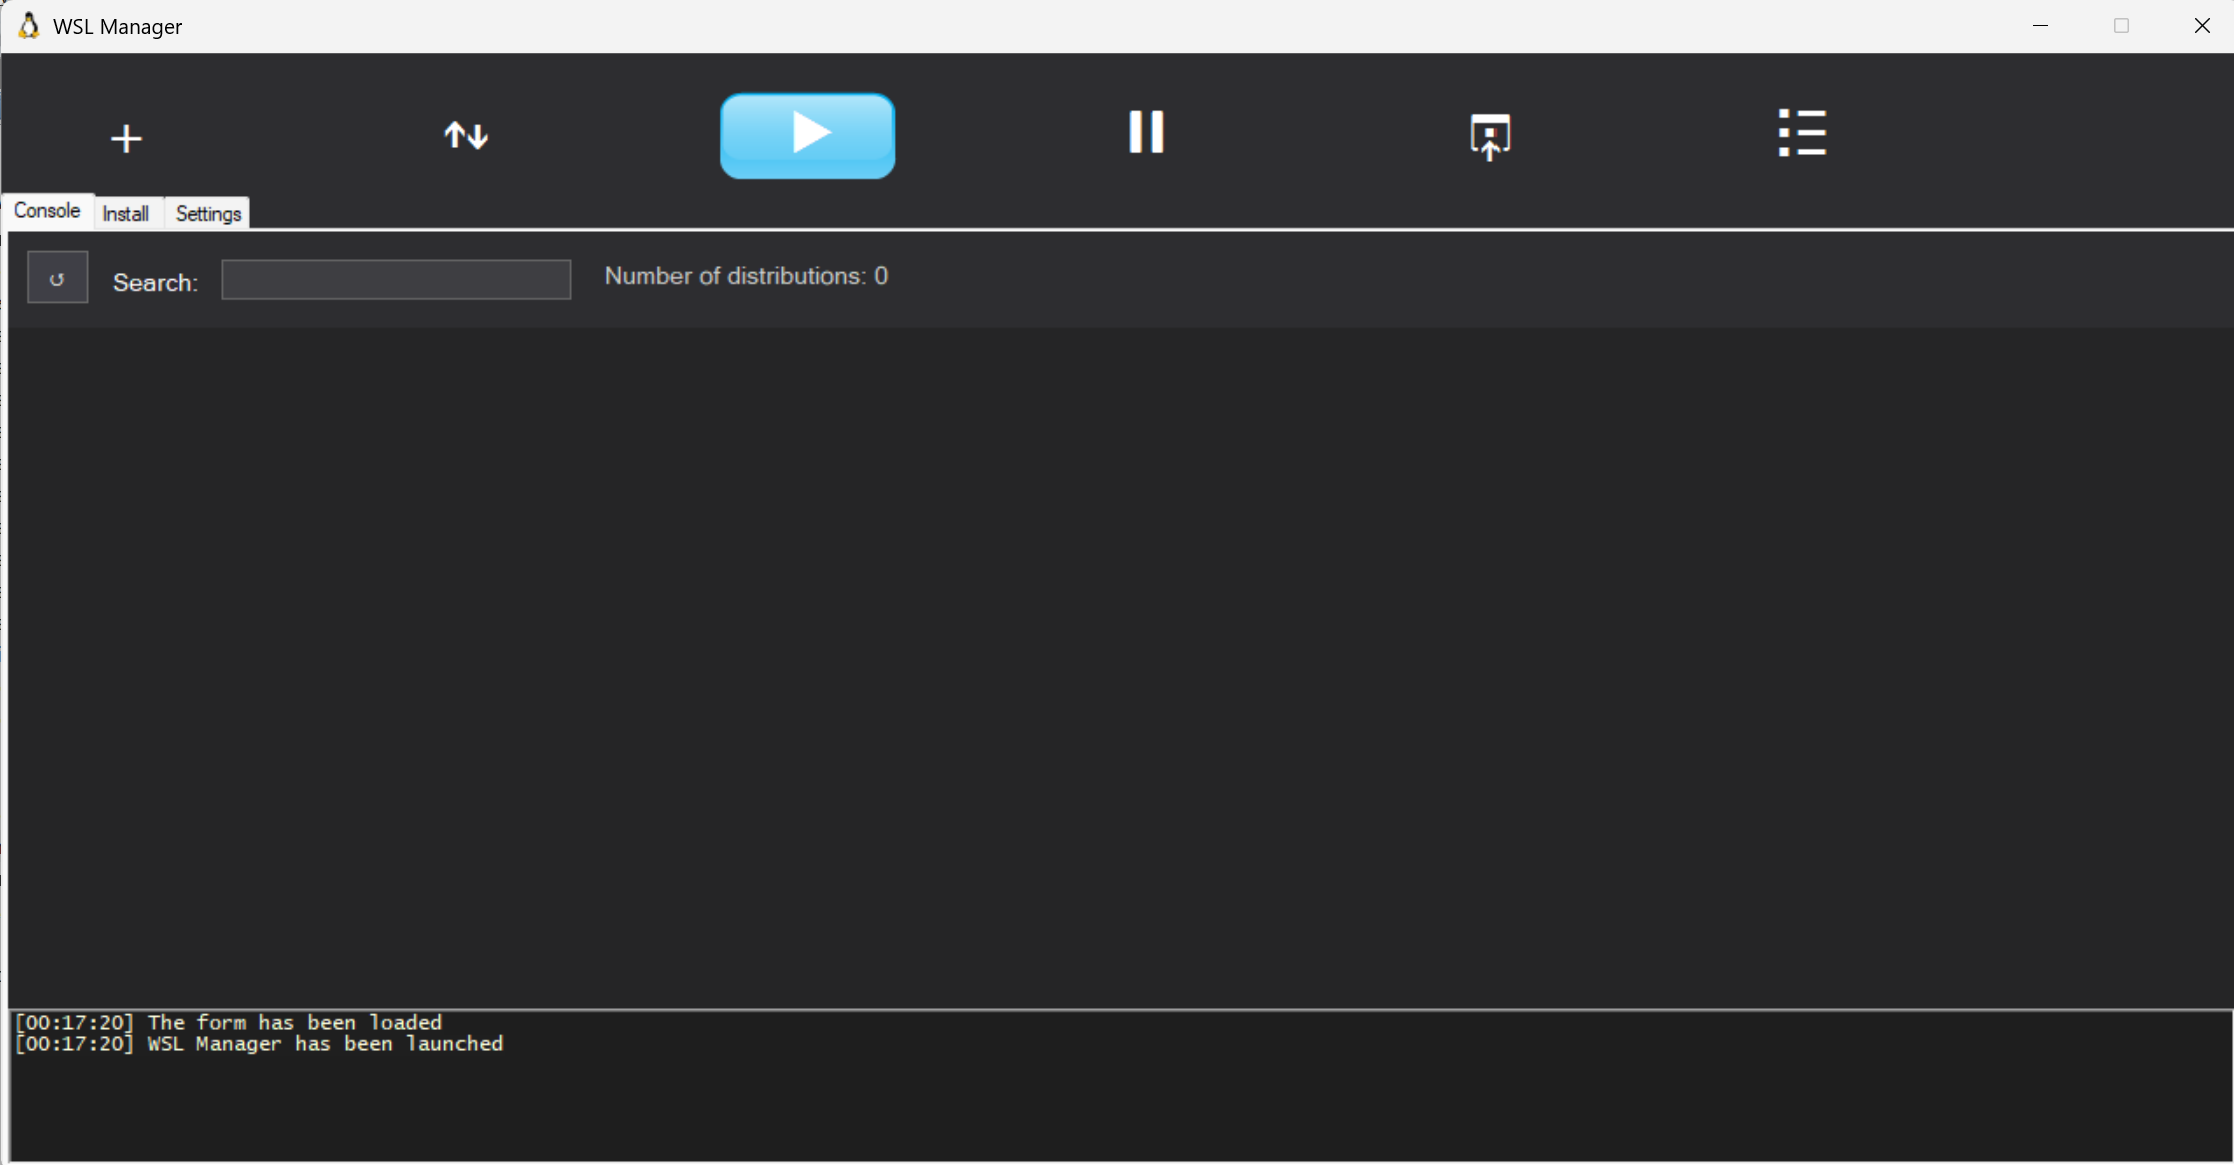
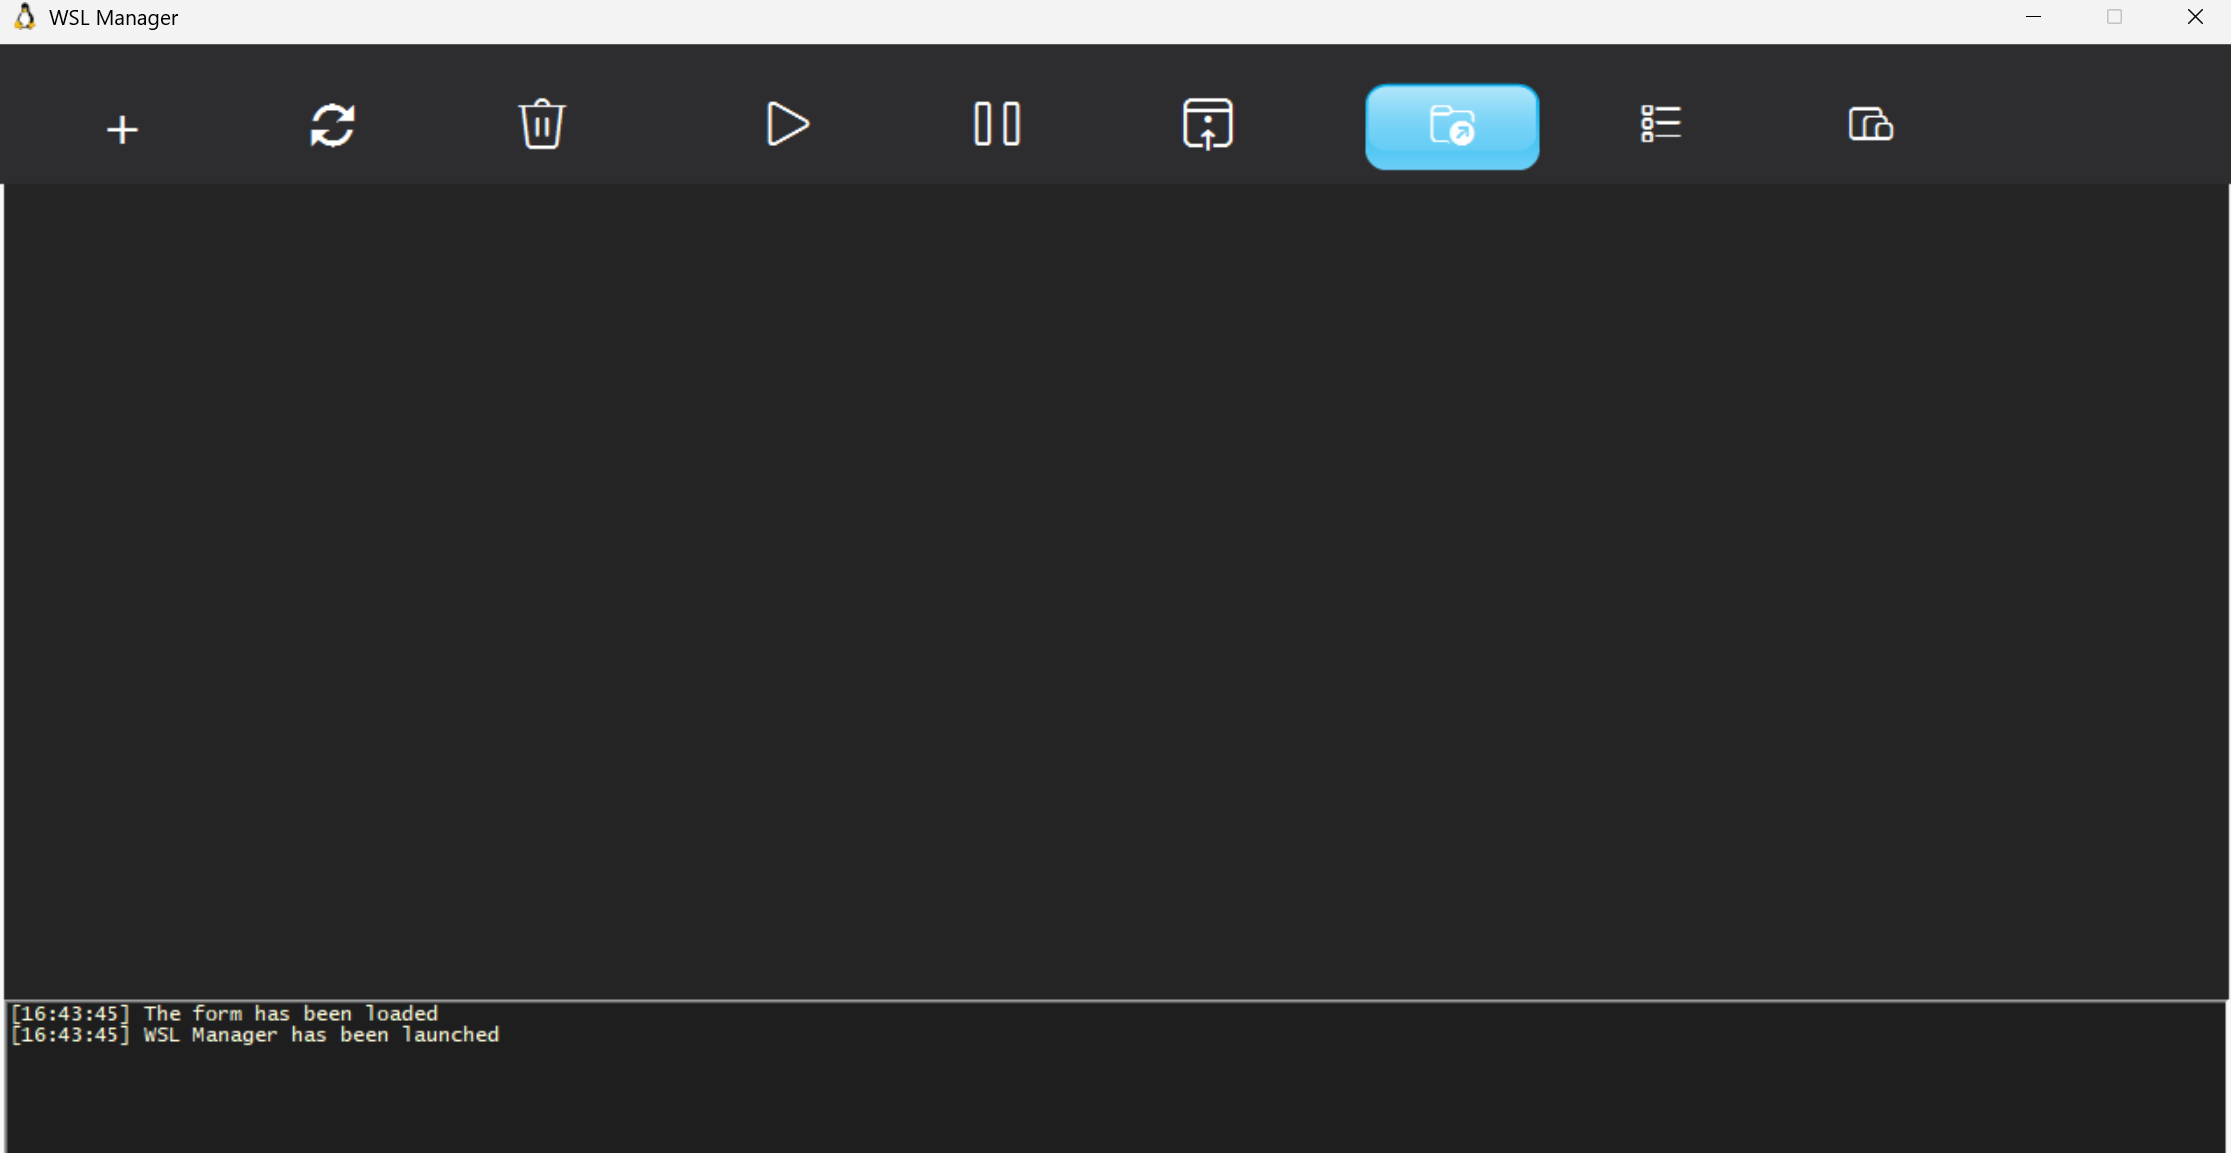
intermeidate revision - updated screen shots and added command draft to README.md

diff --git a/external/csharp/basic-wsl_manager/README.md b/external/csharp/basic-wsl_manager/README.md
@@ -413,7 +413,7 @@ in WSL2 envronment it becomes often:
 
 ```code
 flowchart TB
-  %% Shrink Windows-visible<br/>dynamic image
+%% Shrink Windows-visible<br/>dynamic image
 BEGIN(((BEGIN)))
 END((END))
 API[["low-level VHD / NTFS API"]]
@@ -436,40 +436,15 @@ API-- "Shrink Windows-visible<br/>dynamic image" --> END
 ```
 ```mermaid
 flowchart TB
-  %% Shrink Windows-visible<br/>dynamic image
+%% Shrink Windows-visible<br/>dynamic image
 BEGIN(((BEGIN)))
 END((END))
 API[["low-level VHD / NTFS API"]]
 CLEANER[/"cleaner.sh<br/>multi-purpose<br/>baked into image"/]
 
 BEGIN --> WSLRUN
-
-
 WSLRUN["WSL runner<br/>wsl.exe /tmp/cleaner.sh ..."]
-
-
 PINVOKE["WSL Kick Start<br/>P/Invoke"]
-
-WSLRUN --> CLEANER
-CLEANER -- "Free space inside<br/>dynamic VHDX" --> PINVOKE
-PINVOKE--> API
-API-- "Shrink Windows-visible<br/>dynamic image" --> END
-
-flowchart TB
-  %% Shrink Windows-visible<br/>dynamic image
-BEGIN(((BEGIN)))
-END((END))
-API[["low-level VHD / NTFS API"]]
-CLEANER[/"cleaner.sh<br/>multi-purpose<br/>baked into image"/]
-
-BEGIN --> WSLRUN
-
-
-WSLRUN["WSL runner<br/>wsl.exe /tmp/cleaner.sh ..."]
-
-
-PINVOKE["WSL Kick Start<br/>P/Invoke"]
-
 WSLRUN --> CLEANER
 CLEANER -- "Free space inside<br/>dynamic VHDX" --> PINVOKE
 PINVOKE--> API
@@ -531,6 +506,92 @@ VBMANAGE1 -- Dynamic --> VBMANAGE2 --> END
 ```
 ![VB Shrink Process](screenshots/capture-shrink-vb.png)
 
+      
+```cmd`
+vboxmanage.exe list runningvms
+```
+```text
+"Alpine39" {143fc8d2-8e84-4778-a58e-ae4ad83c41cc}
+"Xubuntu 22.04" {7e261a39-d356-4eb1-a8ed-75675b149241}
+```
+```cmd
+set VM={7e261a39-d356-4eb1-a8ed-75675b149241}
+set USERNAME=sergueik
+set PASSWORD=
+```
+```cmd
+vboxmanage.exe guestcontrol "%VM%" run --username "%USERNAME%" --password "%PASSWORD%" --exe /bin/sh -- /bin/sh -c "C=$1; if which $C && $C --info >/dev/null 2>&1; then echo 1; else echo 0; fi" "probe" "docker"
+```
+
+```text`
+/usr/bin/docker
+0
+```
+
+```cmd
+vboxmanage.exe guestcontrol "%VM%" run --username "%USERNAME%" --password "%PASSWORD%" --exe /bin/sh -- /bin/sh -c "C=$1;  echo $C" "test" "podman"
+```
+```text
+podman
+```
+
+```cmd
+vboxmanage.exe guestcontrol "%VM%" run --username "%USERNAME%" --password "%PASSWORD%" --exe /bin/sh -- /bin/sh -c "C=$1; which $C; if [ $? = 0 ]; then echo 0; else echo 1;fi" "test" "podman"
+```
+
+```text
+1
+```
+
+```cmd
+vboxmanage.exe guestcontrol "%VM%" run --username "%USERNAME%" --password "%PASSWORD%" --exe /bin/sh -- /bin/sh -c "C=$1; which $C; if [ $? = 0 ]; then echo 0; else echo 1;fi" "test" "docker"
+```
+
+```text
+/usr/bin/docker
+0
+
+
+```cmd
+vboxmanage.exe guestcontrol "%VM%" run --username "%USERNAME%" --password "%PASSWORD%" --exe /bin/sh -- /bin/sh -c "C=$1; which $C; if [ -n $? ]; then echo 0; else echo 1;fi" "test" "docker"
+```
+
+```text
+/usr/bin/docker
+0
+```
+```
+
+```cmd
+vboxmanage.exe guestcontrol "%VM%" run --username "%USERNAME%" --password "%PASSWORD%" --exe /bin/sh -- /bin/sh -c "C=$1; which $C; if [ $? = 0 ]; then $C info > /dev/null; else echo 1;fi" "test" "docker"
+```
+```sh
+vboxmanage.exe guestcontrol "%VM%" run --username "%USERNAME%" --password "%PASSWORD%" --exe /bin/sh -- /bin/sh -c "C=$1; which $C 2>/dev/null 1>&2; if [ $? = 0 ]; then $C info > /dev/null; echo $? ;else echo 1;fi" "test" "docker"
+1
+```
+```cmd
+vboxmanage.exe guestcontrol "%VM%" run --username "%USERNAME%" --password "%PASSWORD%" --exe /bin/sh -- /bin/sh -c "C=$1; which $C 2>/dev/null 1>&2; if [ $? = 0 ]; then $C info > /dev/null; echo $? ;else echo 1;fi" "test" "docker"
+```
+```text
+0
+```
+```cmd
+vboxmanage.exe guestcontrol "%VM%" run --username "%USERNAME%" --password "%PASSWORD%" --exe /bin/sh -- /bin/sh -c "C=$1; which $C 2>/dev/null 1>&2; if [ $? = 0 ]; then $C info > /dev/null; echo $? ;else echo 1;fi" "test" "podman"
+```
+```text
+1
+```
+```cmd
+set VM={143fc8d2-8e84-4778-a58e-ae4ad83c41cc}
+set USERNAME=vagrant
+set PASSWORD=vagrant
+```
+
+```text
+VBoxManage.exe: error: The specified user was not able to logon on guest
+VBoxManage.exe: error: Details: code VBOX_E_IPRT_ERROR (0x80bb0005), component GuestSessionWrap, interface IGuestSession, callee IUnknown
+VBoxManage.exe: error: Context: "WaitForArray(ComSafeArrayAsInParam(aSessionWaitFlags), 30 * 1000, &enmWaitResult)" at line 938 of file VBoxManageGuestCtrl.cpp
+```
 ### Troubleshooting
 
 Porting Widows Forms code:
